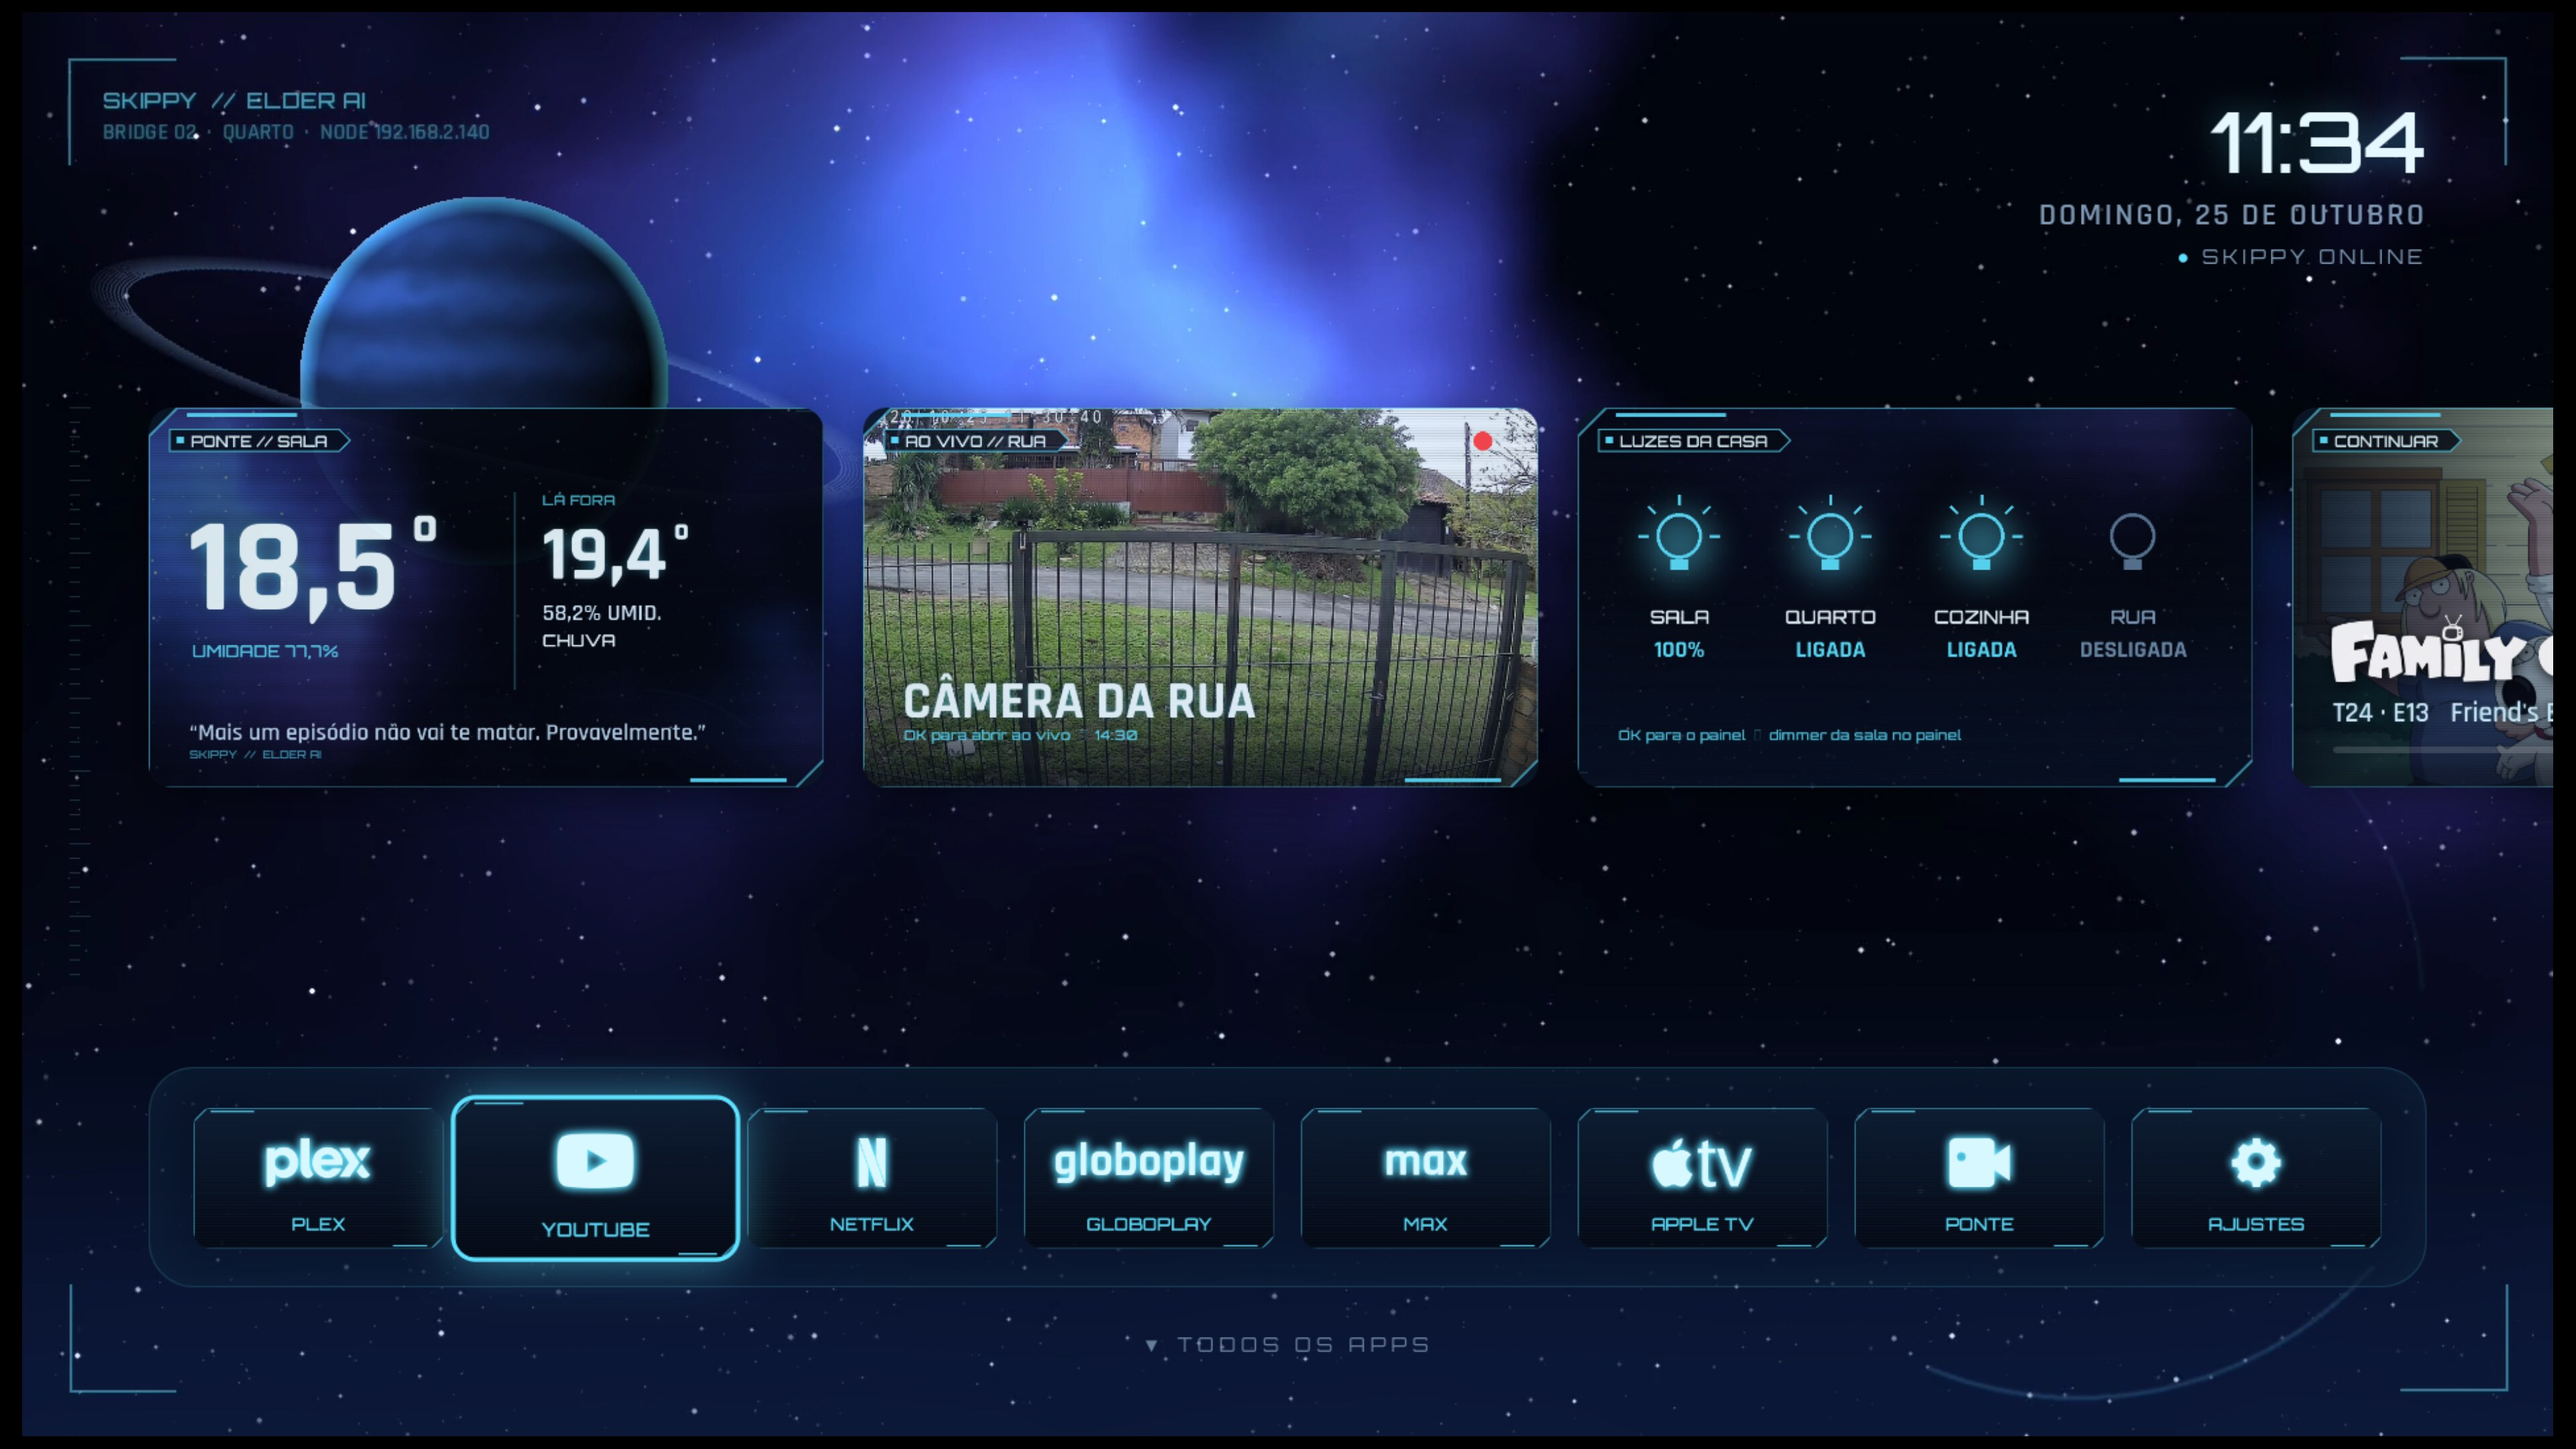
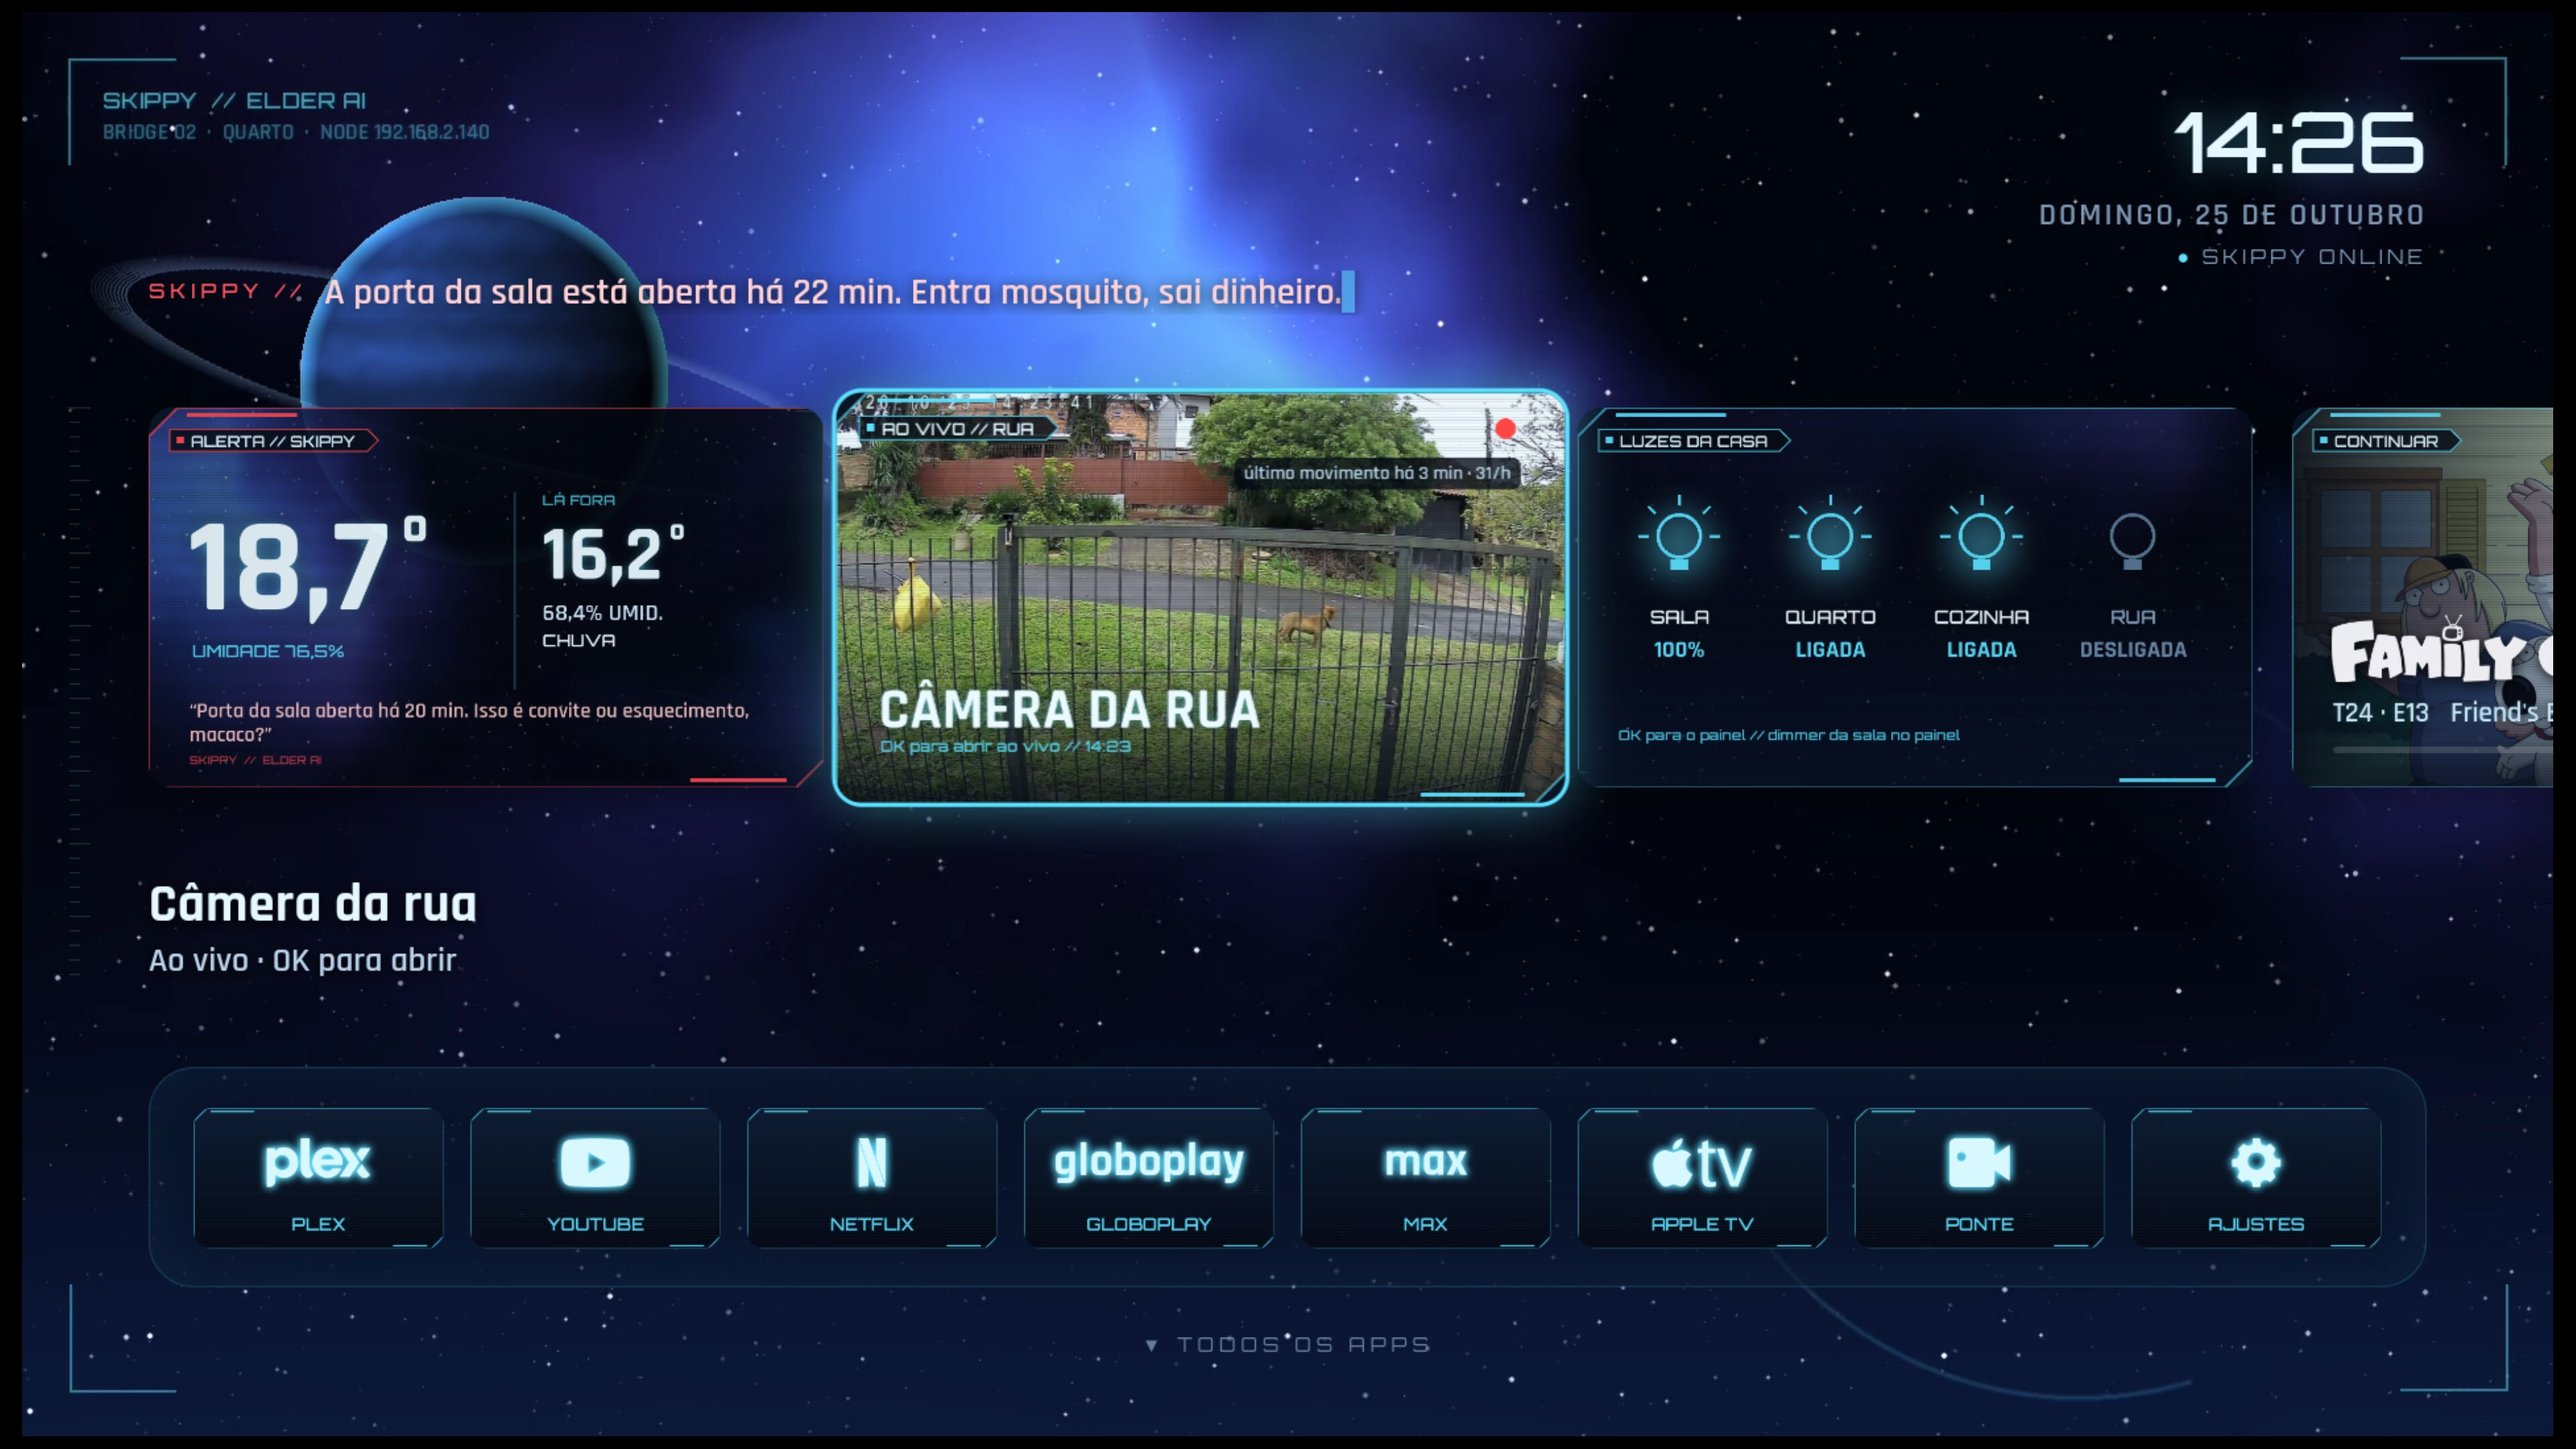
docs: showcase README (devices, Skippy lines, easter eggs, fresh screenshots); lights card refreshes within seconds

diff --git a/channel-app/assets/home.html b/channel-app/assets/home.html
@@ -189,7 +189,7 @@ try {
             img: 'banners/banner-apps.png'});
 } catch (e) { console.log('apps ' + e); }
 render();
-loadFeed(); setInterval(loadFeed, 5 * 60 * 1000);
+loadFeed(); setInterval(loadFeed, 30 * 1000);   // o feed é cache do servidor (~30 ms)
 </script>
 <div id="warp"><canvas id="wc" width="1920" height="1080"></canvas><h1 id="wt">SALTO HIPERESPACIAL</h1><h2 id="ws"></h2></div>
 <script>

diff --git a/channel-app/src/dev/skippy/channel/Sync.java b/channel-app/src/dev/skippy/channel/Sync.java
@@ -26,7 +26,7 @@ import org.json.JSONObject;
 public class Sync extends BroadcastReceiver {
     static final String TAG = "SkippyChannel";
     static final String FEED = "http://192.168.2.46:8099/feed.json";
-    static final long EVERY = 10 * 60 * 1000L;
+    static final long EVERY = 2 * 60 * 1000L;   // Shield: card de luzes atualizado em até ~2 min
 
     @Override public void onReceive(Context ctx, Intent i) {
         Watch.start(ctx, Intent.ACTION_BOOT_COMPLETED.equals(i.getAction()));   // Fire TV: vigia da home sobe no boot
@@ -121,7 +121,7 @@ public class Sync extends BroadcastReceiver {
         AlarmManager am = (AlarmManager) ctx.getSystemService(Context.ALARM_SERVICE);
         PendingIntent pi = PendingIntent.getBroadcast(ctx, 0,
             new Intent(ctx, Sync.class).setAction("dev.skippy.channel.SYNC"), PendingIntent.FLAG_IMMUTABLE);
-        am.setInexactRepeating(AlarmManager.ELAPSED_REALTIME, SystemClock.elapsedRealtime() + EVERY, EVERY, pi);
+        am.setRepeating(AlarmManager.ELAPSED_REALTIME, SystemClock.elapsedRealtime() + EVERY, EVERY, pi);
     }
 
     static String get(String url) throws Exception {

diff --git a/cards/app.py b/cards/app.py
@@ -403,7 +403,8 @@ def refresher():
 def alert_sig():
     c = ctx() or {}
     mm = c.get('motion_min')
-    return (bool((c.get('motion_on') or (mm is not None and mm < 3)) and (c.get('motion_1h') or 0) < 15), bool(c.get('door_open')))
+    return (bool((c.get('motion_on') or (mm is not None and mm < 3)) and (c.get('motion_1h') or 0) < 15), bool(c.get('door_open')),
+            tuple(sorted((c.get('lights') or {}).items())))   # luz mudou: card de luzes redesenha em até ~20 s
 
 def feed():
     for _ in range(60):   # só no primeiro boot do container espera o primeiro render

diff --git a/README.md b/README.md
@@ -1,31 +1,72 @@
+<div align="center">
+
 # Skippy TV
 
-A sci-fi "starship bridge" home screen for Android TV boxes, wired to a real house:
-an animated wallpaper, neon app banners, live cards (Plex *continue watching*, room
-climate from Home Assistant, a street-camera snapshot, light status) and a **Bridge
-panel** with the street camera **live** (~1 s latency, hardware decoded) and the house
-lights (on/off + dimmer).
+**A sci-fi starship-bridge home screen for Android TV — wired to a real house.**
 
-Runs on two very different devices:
+Animated space wallpaper · neon app banners · live Plex and Home Assistant cards ·
+a live street camera at ~1 s latency · house lights with dimmer · an AI with an attitude problem.
 
-| Device | OS | How it is themed |
+![Android TV](https://img.shields.io/badge/Android%20TV-7.1%2B-3DDC84?logo=android&logoColor=white)
+![Fire TV](https://img.shields.io/badge/Fire%20TV-Fire%20OS%206-FF9900?logo=amazon&logoColor=white)
+![NVIDIA Shield](https://img.shields.io/badge/NVIDIA%20Shield-1st%20gen-76B900?logo=nvidia&logoColor=white)
+![Home Assistant](https://img.shields.io/badge/Home%20Assistant-REST-41BDF5?logo=homeassistant&logoColor=white)
+![Plex](https://img.shields.io/badge/Plex-continue%20watching-EBAF00?logo=plex&logoColor=white)
+![License: MIT](https://img.shields.io/badge/license-MIT-blue)
+
+![Animated wallpaper](docs/screenshots/wallpaper.gif)
+
+</div>
+
+## What it looks like
+
+![Fire TV home: Skippy talking above live cards](docs/screenshots/firetv-home.jpg)
+<sub>Fire TV launcher. The line above the cards is Skippy reading the house — here a real alert: the living-room door had been open for 22 minutes.</sub>
+
+![NVIDIA Shield home](docs/screenshots/shield-home.jpg)
+<sub>NVIDIA Shield with Projectivy: animated wallpaper, the Skippy icon pack and cards in the *Watch Next* row.</sub>
+
+| The Bridge: live camera + lights | Camera full screen |
+|---|---|
+| ![Bridge panel](docs/screenshots/bridge.jpg) | ![Camera](docs/screenshots/shield-camera-fullscreen.jpg) |
+
+| Fire TV — all apps | The banners |
+|---|---|
+| ![All apps](docs/screenshots/firetv-all-apps.jpg) | ![Banners](docs/screenshots/banners.png) |
+
+## Skippy talks (on screen, never out loud)
+
+Skippy is the Elder AI from *Expeditionary Force*: brilliant, arrogant, stuck in a TV box. Every 15 s he reads
+the house — Home Assistant, the street camera's motion history, Plex, the clock — and picks a line:
+
+> *"27 motion alarms in the last hour. Either a very indecisive burglar, or the wind."* &nbsp;·&nbsp;
+> *"Living-room door open for 27 min. Is that an invitation or did you forget, monkey?"* &nbsp;·&nbsp;
+> *"Kitchen lights on at 3 am. I know what you are about to do. So does the fridge."*
+
+Red frame for alerts (real street motion, door left open), gold for rare and dated lines (11:11, 13:37, Christmas,
+Friday the 13th, a 1-in-120 legendary). Windy days don't count: the palm tree triggers the camera 30 times an hour,
+so Skippy keeps score instead — *"Last hour: palm tree 28, burglars 0."* (Lines are in Brazilian Portuguese.)
+
+### Easter eggs
+
+| Konami code on the Bridge → *Protocolo Elder* | ◀◀◀ on the camera → *Modo Mira* | Konami on the Fire TV home → hyperspace |
 |---|---|---|
-| NVIDIA Shield (living room) | Android TV 11 | [Projectivy Launcher](https://play.google.com/store/apps/details?id=com.spocky.projengmenu) + a custom icon pack + cards published as Android TV *Watch Next* |
-| Fire TV Stick 4K, 1st gen (bedroom) | Fire OS 6 (Android 7.1) | A **custom launcher** (`Home` activity), because Projectivy needs Android 10 |
+| ![Protocolo Elder](docs/screenshots/egg-elder.jpg) | ![Modo Mira](docs/screenshots/egg-mira.jpg) | ![Hyperspace](docs/screenshots/egg-hyperspace.jpg) |
 
-![Shield home](docs/screenshots/shield-home.jpg)
+None of them touch the house: the planetary takeover is cancelled because *"the neighbour's Wi-Fi is too slow"*.
 
-| Bridge panel (camera + lights) | Camera full screen |
-|---|---|
-| ![Bridge](docs/screenshots/shield-ponte.jpg) | ![Camera](docs/screenshots/shield-camera-fullscreen.jpg) |
+## Where it runs
 
-| Fire TV launcher | Fire TV — all apps |
-|---|---|
-| ![Fire TV home](docs/screenshots/firetv-home.jpg) | ![Fire TV apps](docs/screenshots/firetv-all-apps.jpg) |
+| Device | Status | How it is themed |
+|---|---|---|
+| **NVIDIA Shield TV, 1st gen** (2015, Tegra X1) — Android TV 11 | ✅ tested daily | [Projectivy Launcher](https://play.google.com/store/apps/details?id=com.spocky.projengmenu) + the Skippy icon pack + cards in Android TV *Watch Next* |
+| **Amazon Fire TV Stick 4K, 1st gen** (AFTMM) — Fire OS 6 / Android 7.1 | ✅ tested daily | Custom launcher (`Home` activity) — Projectivy needs Android 10 |
+| Any other Android TV / Google TV (Chromecast with Google TV, Mi Box, TCL, Philips…) | ⚠ should work, not tested | Android TV 10+: the Shield path. Older Android or Fire OS: the Fire TV path |
 
-Animated wallpaper (24 s seamless loop, rendered procedurally — no AI, no stock footage):
-
-![wallpaper](docs/screenshots/wallpaper.gif)
+The whole thing is plain Android APIs (Watch Next, `MediaCodec`, `WebView`), a small Python server and
+Home Assistant's REST API — nothing Shield- or Amazon-specific except the workarounds documented in
+[docs/ARCHITECTURE.md](docs/ARCHITECTURE.md). If you try it on another box, an issue with the model
+and what happened is very welcome.
 
 ## Want one for your house? Ask an AI agent
 
@@ -87,7 +128,7 @@ Everything generated goes to `dist/` (git-ignored).
 
 ```bash
 # cards server (on the Docker host 192.168.2.46)
-scp cards/{app.py,ponte.html,Dockerfile,docker-compose.yml,wallpaper.jpg} h46:/dados/dockers/skippy-cards/
+scp cards/{app.py,quips.py,ponte.html,Dockerfile,docker-compose.yml,wallpaper.jpg} h46:/dados/dockers/skippy-cards/
 scp -r fonts h46:/dados/dockers/skippy-cards/
 ssh h46 'cd /dados/dockers/skippy-cards && docker compose up -d --build'
 # .env on the host only: PLEX_TOKEN, PLEX_MID, HASS_TOKEN, HASS_URL, PLEX_URL, PUBLIC_URL (see cards/.env.example)
@@ -98,12 +139,6 @@ adb -s 192.168.2.140:5555 install -r dist/skippy-channel.apk                    
 adb -s <device> shell dumpsys deviceidle whitelist +dev.skippy.channel                  # both: Doze would cut its network
 adb -s 192.168.2.140:5555 shell appops set dev.skippy.channel GET_USAGE_STATS allow      # Fire TV only (Watch)
 ```
-
-## Easter eggs
-
-Konami code on the Bridge panel or the Fire TV home, ◀◀◀ on the live camera, golden legendary lines,
-date jokes. Details (and how to trigger them without a remote) in [docs/ARCHITECTURE.md](docs/ARCHITECTURE.md#easter-eggs).
-Skippy only talks on screen — never through speakers.
 
 ## Security notes
 
